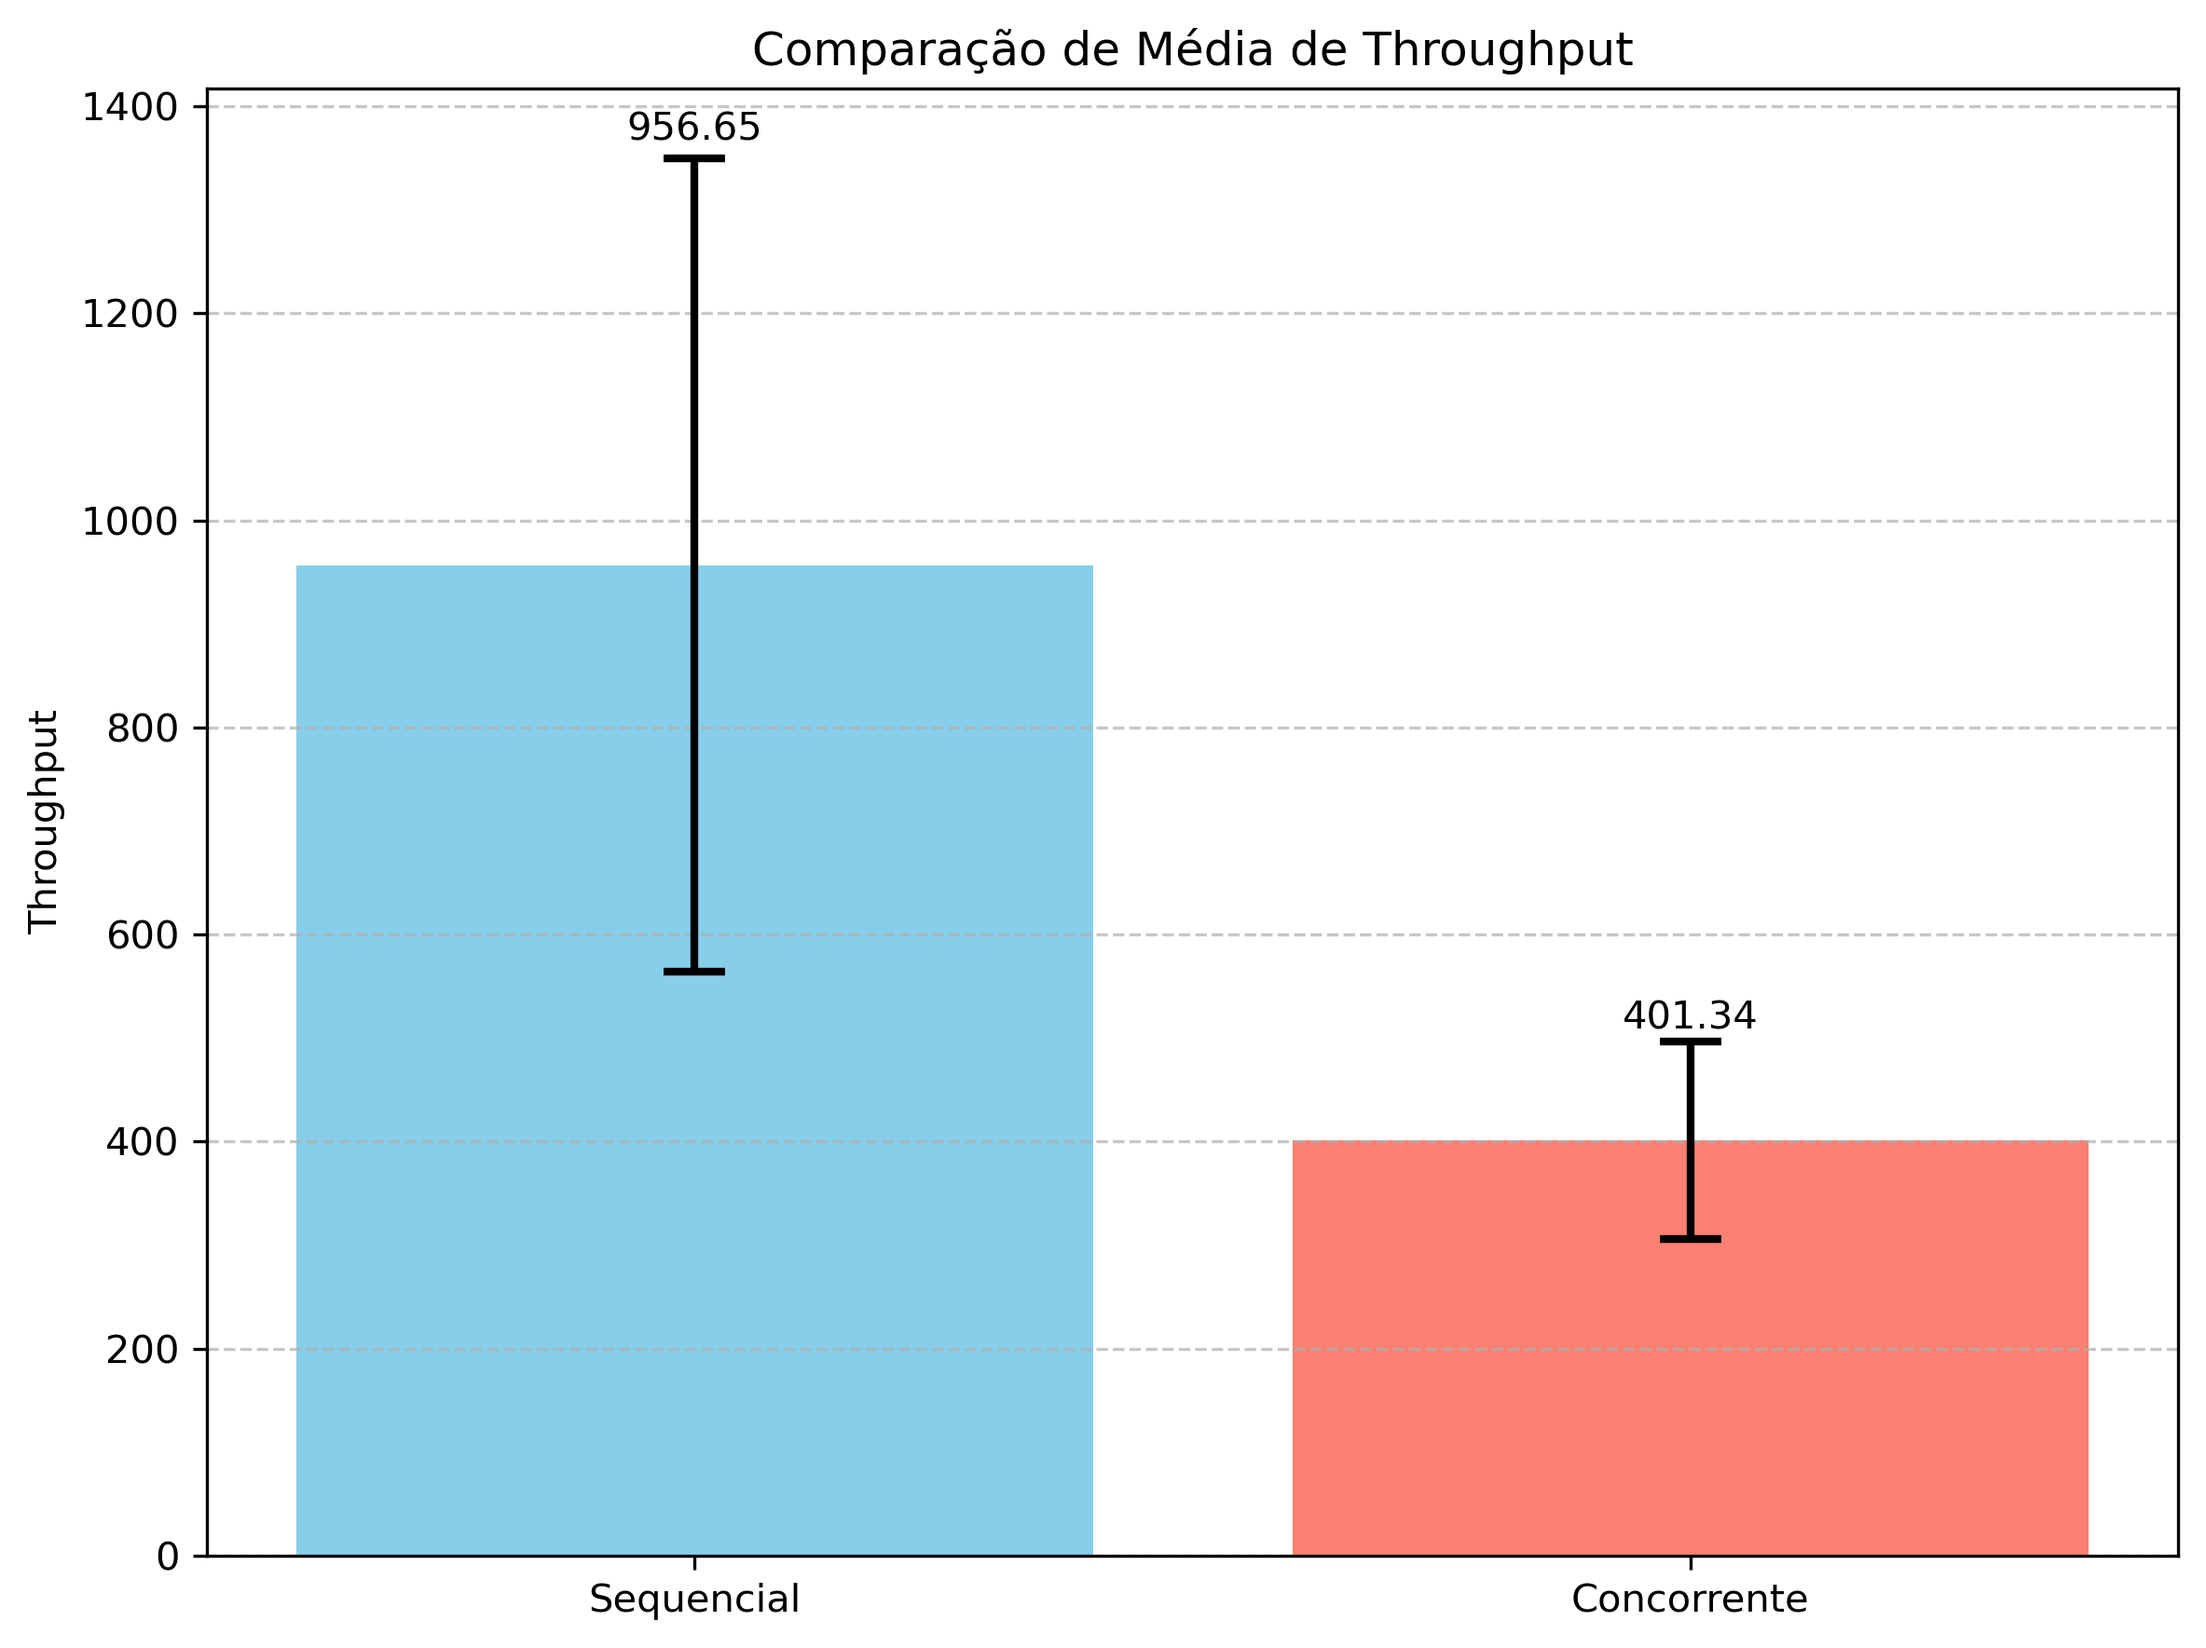
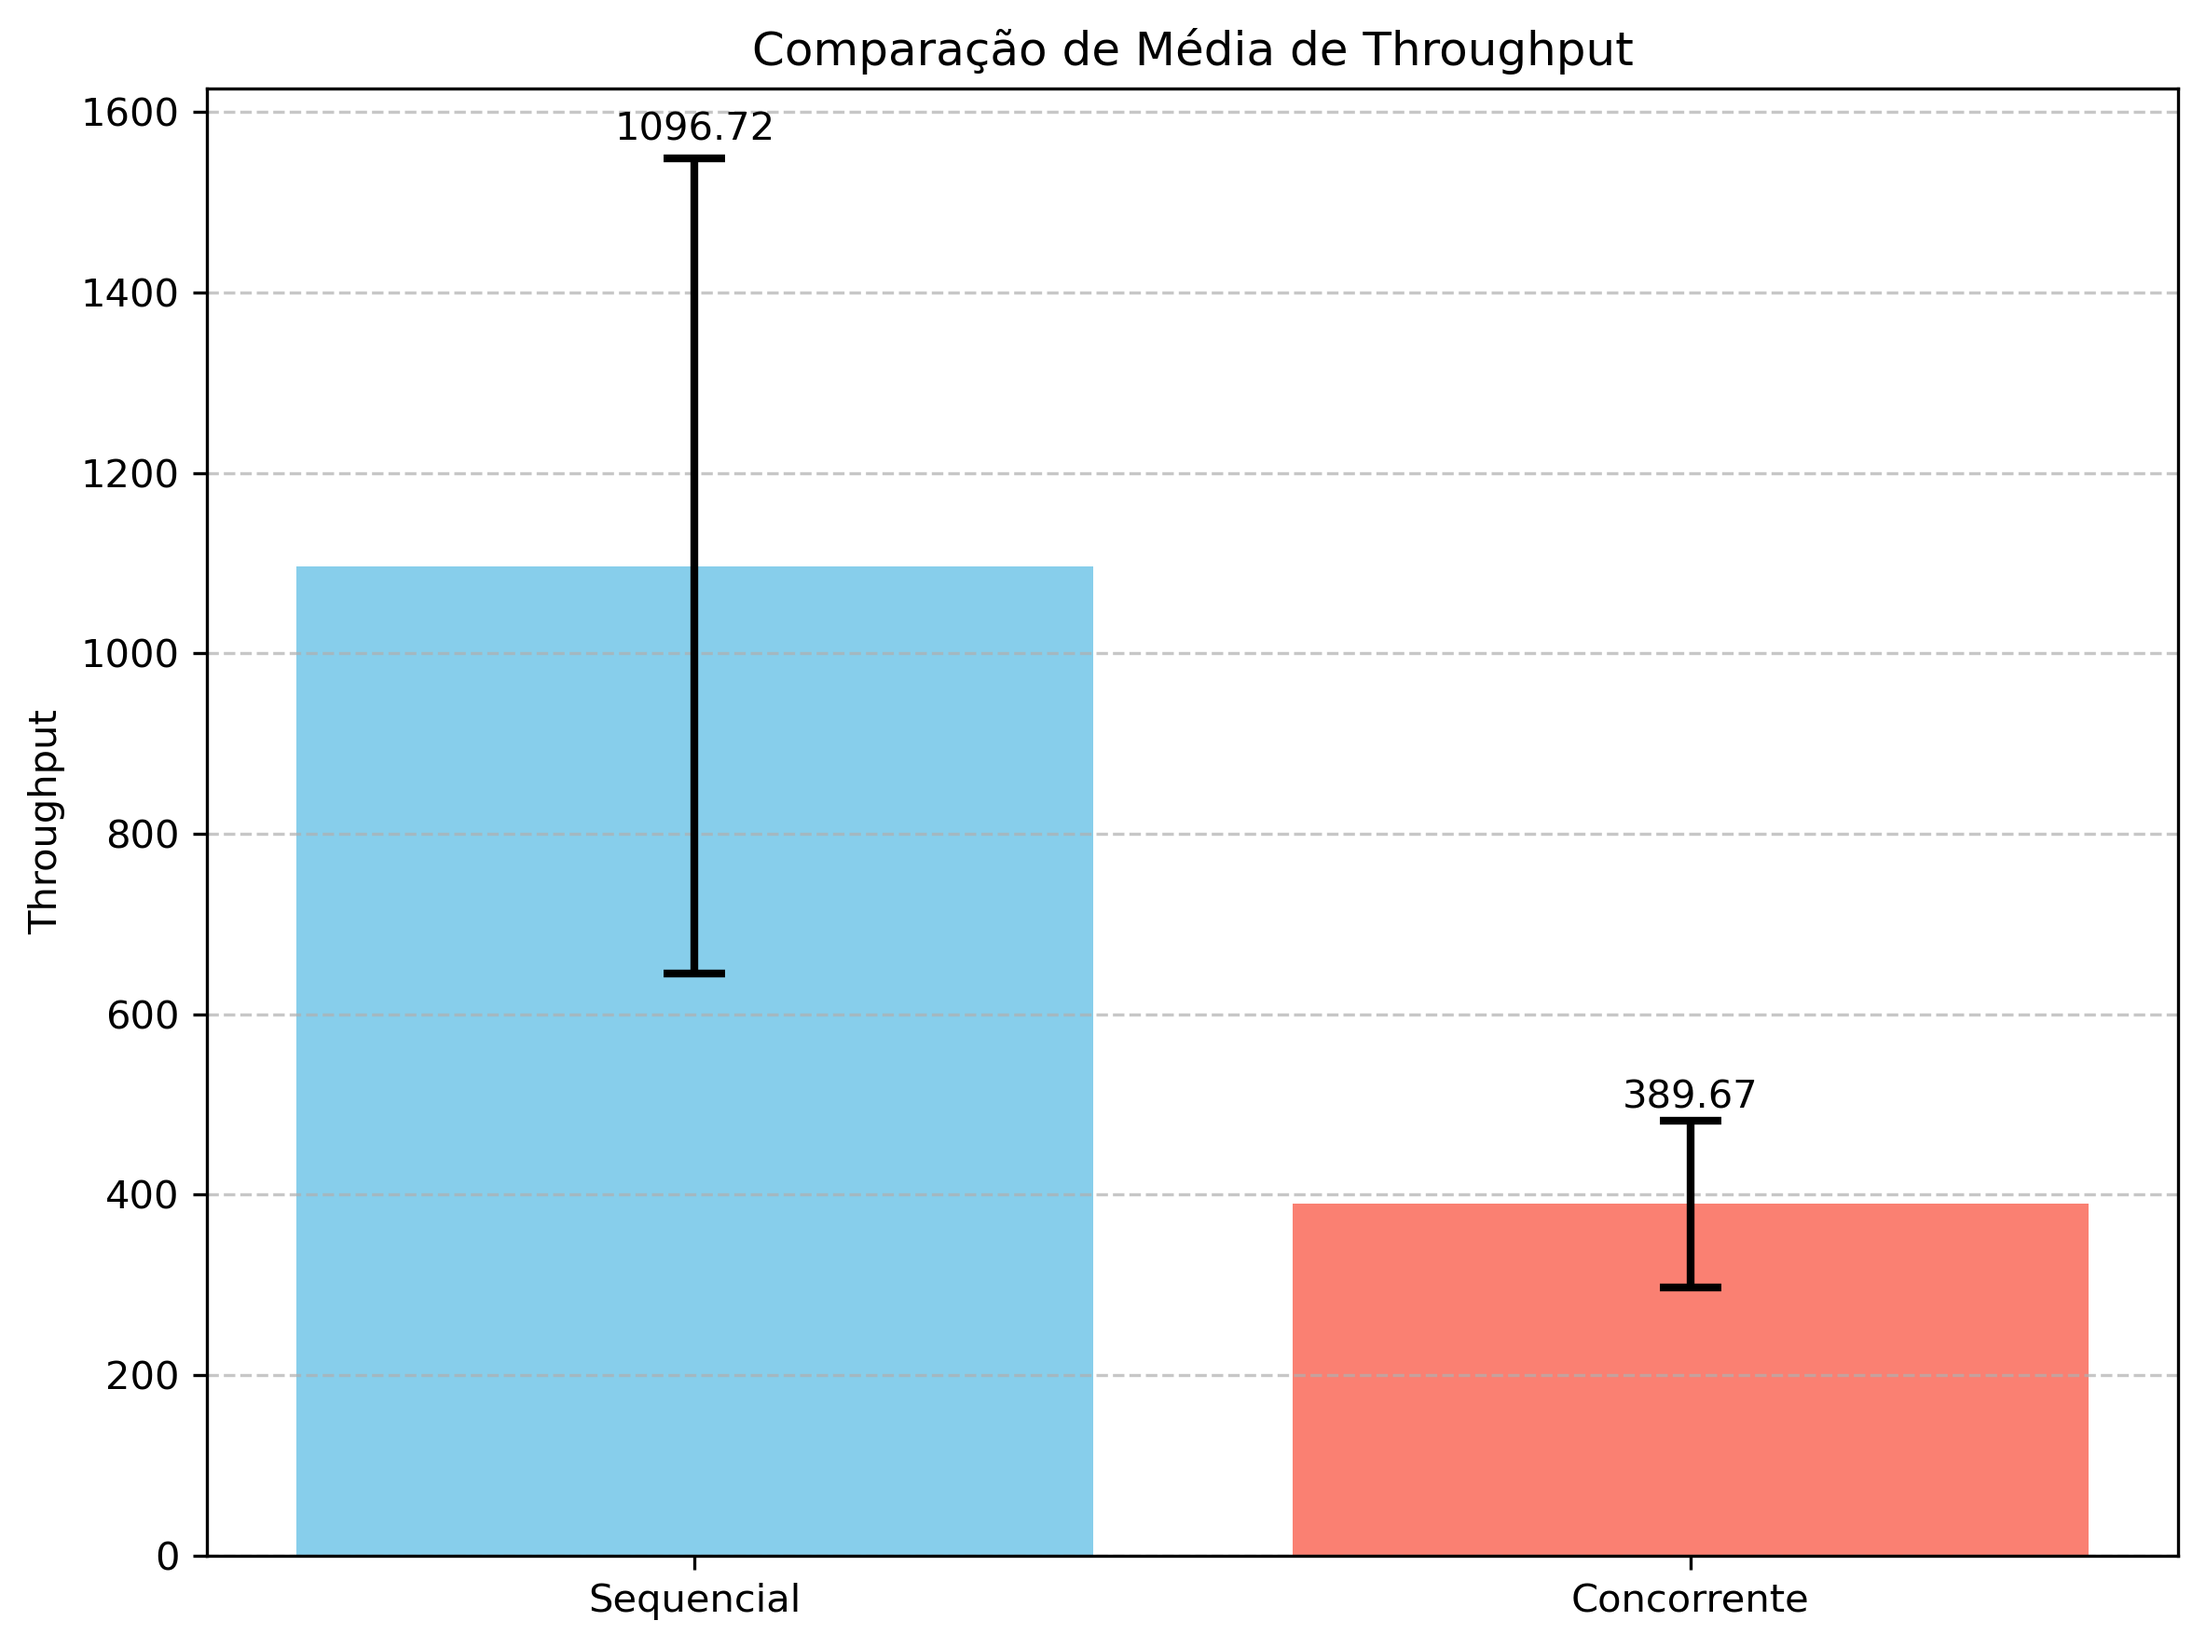
add alterações

diff --git a/src/cliente/resultados.py b/src/cliente/resultados.py
@@ -9,7 +9,7 @@ from datetime import datetime
 
 # Esta funcao salva os resultados de cada exeecucao em um CSV, na pasta de resultados
 def salvar_execucoes_csv(resultados, nome_servidor, arquivo='resultados/execucoes.csv'):
-    
+    #Diretorio base e criacao da pasta resultados para salvar o arquivo CSV
     os.makedirs(os.path.dirname(arquivo) if os.path.dirname(arquivo) else '.', exist_ok=True)
     timestamp = datetime.now().strftime('%Y-%m-%d %H:%M:%S')
     
@@ -38,6 +38,7 @@ def salvar_execucoes_csv(resultados, nome_servidor, arquivo='resultados/execucoe
 # Esta funcao salva as estatisticas calculadas no CSV, na pasta resultados
 def salvar_estatisticas_csv(estatisticas, nome_servidor, arquivo='resultados/estatisticas.csv'):
    
+    #Diretorio base e criacao da pasta resultados para salvar o arquivo CSV
     os.makedirs(os.path.dirname(arquivo) if os.path.dirname(arquivo) else '.', exist_ok=True)
 
     linhas = []

diff --git a/src/cliente/testes.py b/src/cliente/testes.py
@@ -62,7 +62,6 @@ def teste_concorrente(metodo, caminho, num_requisicoes, num_threads, cliente = N
         thread.join()
         
     tempo_total = time.time()-tempo_inicial
-    total_requisicoes = num_requisicoes * num_threads
     sucesso = len(tempos)
     tempo_medio_resposta = sum(tempos)/sucesso if sucesso else 0
     throughput = sucesso/tempo_total if tempo_total > 0 else 0

diff --git a/src/servidor_sincrono/servidorSincrono.py b/src/servidor_sincrono/servidorSincrono.py
@@ -104,7 +104,7 @@ class ServidorSequencial():
             'Caminho': caminho_requisicao,
             'Duracao': f'{time.time() - tempo_inicial:.6f}s'
         }
-        conteudo = f'Bem vindo ao servidor Concorrente!'
+        conteudo = f'Bem vindo ao servidor Sequencial!'
         observacao = f'Metodo GET realizado'  
         
         resposta.update({
